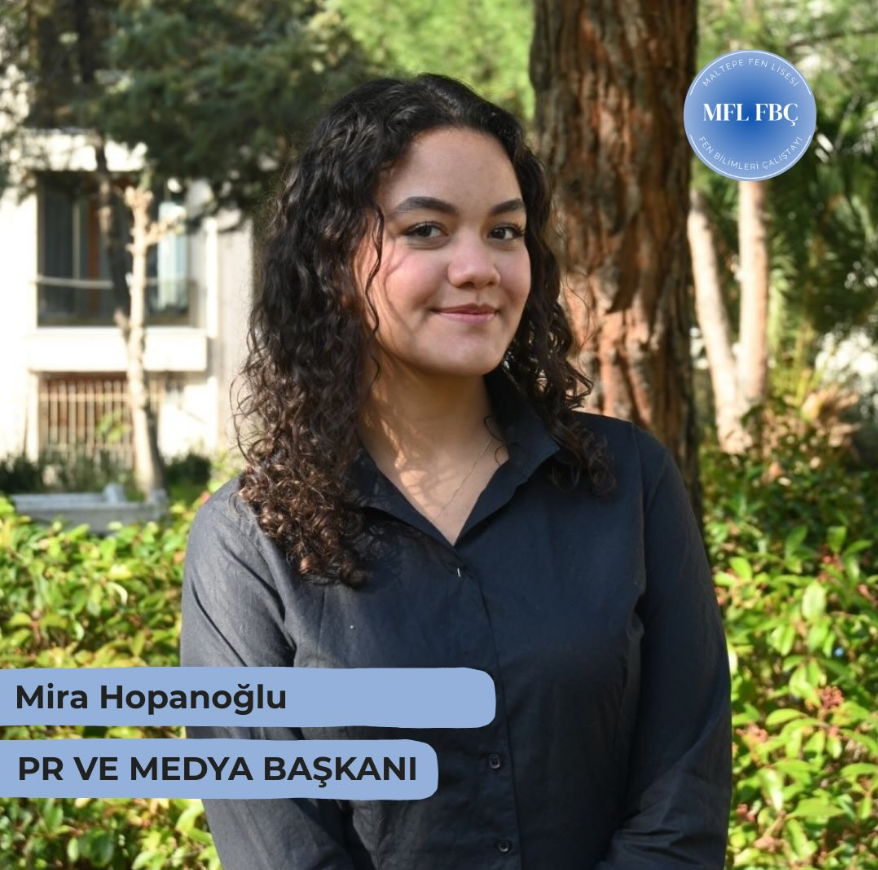
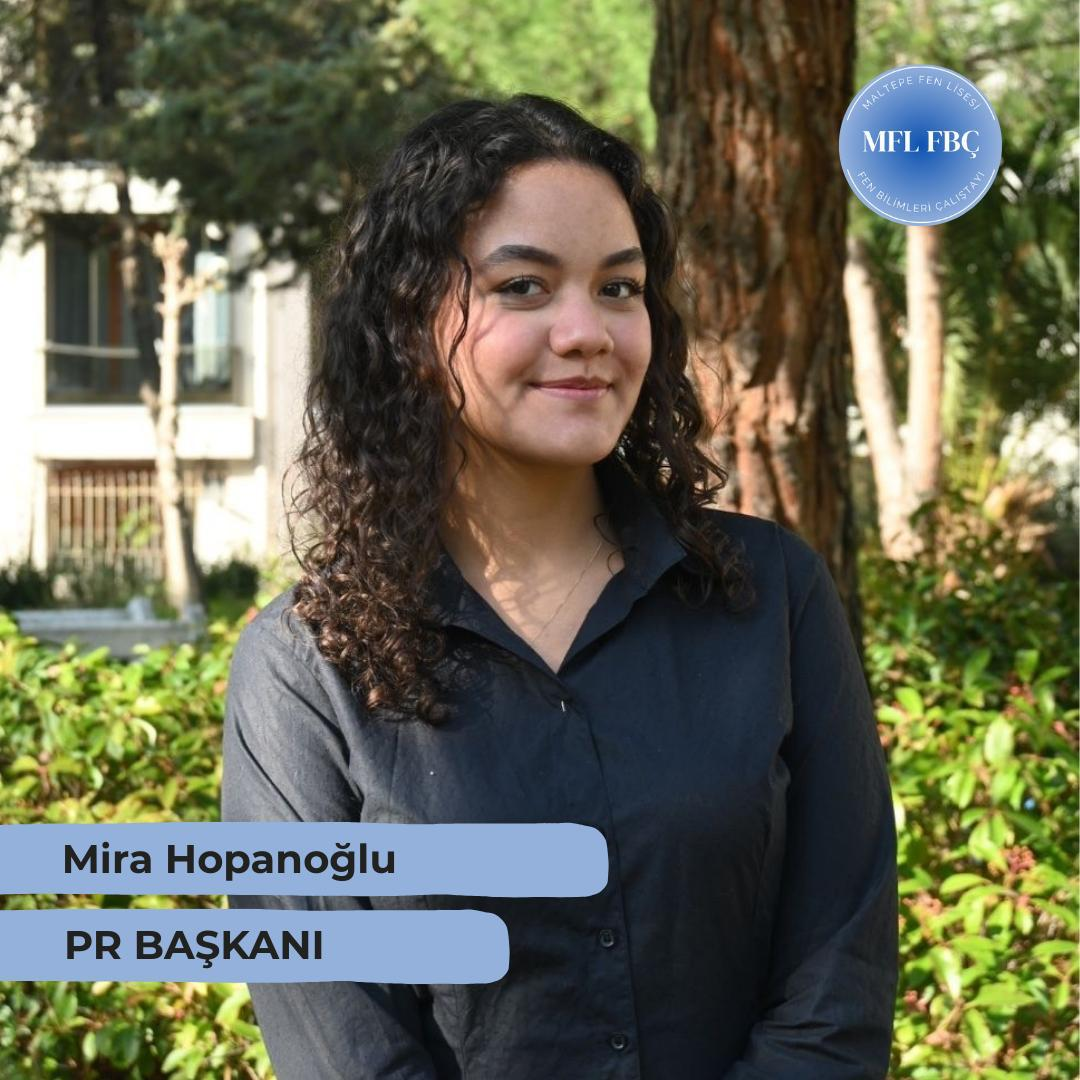
feat: 7 ekip kartı, güncel fotoğraflar ve geçmiş çalıştay galerisi
- Ekiplerimiz: 7 kart (Genel Koordinatör, Yardımcı Koordinatör, PR,
  Press, Akademi, Lojistik, Saha) fotoğraflı tasarım
- Geçmiş çalıştay '25 galerisi 4 fotoğrafa güncellendi
- Alt satır kartları üst satıra göre ortalandı

diff --git a/index.html b/index.html
@@ -348,29 +348,58 @@
             <div class="subteam-grid">
                 <div class="subteam-card reveal">
                     <div class="subteam-cover">
-                        <img src="assets/images/pr-baskan.png" alt="PR Ekibi - Mira Hopanoğlu" class="subteam-photo">
+                        <img src="assets/images/Genel-koordinator-sir-demir.png" alt="Genel Koordinatör" class="subteam-photo">
                     </div>
                     <div class="subteam-body">
-                        <h4 class="subteam-name">PR Ekibi</h4>
-                        <p class="subteam-desc">Çalıştayın kurumsal kimliğini oluşturmak, kamuoyundaki algısını güçlendirmek ve etkinliğin hedef kitlesine doğru ve etkili biçimde ulaşmasını sağlamakla sorumludur. Tanıtım metinleri, afiş ve basın bültenlerini hazırlar, iş birlikleri ve sponsorluk süreçlerini koordine eder.</p>
+                        <h4 class="subteam-name">Genel Koordinatör</h4>
                     </div>
                 </div>
                 <div class="subteam-card reveal">
                     <div class="subteam-cover">
-                        <img src="assets/images/press-baskan.png" alt="Press Ekibi - Mevanur Güneş" class="subteam-photo">
+                        <img src="assets/images/yardimci-koordinator.png" alt="Yardımcı Koordinatör" class="subteam-photo">
                     </div>
                     <div class="subteam-body">
-                        <h4 class="subteam-name">Sosyal Medya Ekibi</h4>
-                        <p class="subteam-desc">Çalıştayın dijital platformlardaki görünürlüğünü artırmak, hedef kitleyle etkileşim kurmak ve etkinlik sürecini dinamik biçimde duyurmak için çalışır. İçerik planlaması yapar, paylaşımların zamanlamasını ve görsel dilini belirler.</p>
+                        <h4 class="subteam-name">Yardımcı Koordinatör</h4>
                     </div>
                 </div>
                 <div class="subteam-card reveal">
                     <div class="subteam-cover">
-                        <img src="assets/images/saha-baskanlarvealibaran.png" alt="Saha Ekibi - Ali Baran Diken, Derin Güzel" class="subteam-photo">
+                        <img src="assets/images/Pr-baskan.png" alt="PR Başkanı" class="subteam-photo">
                     </div>
                     <div class="subteam-body">
-                        <h4 class="subteam-name">Saha Ekibi</h4>
-                        <p class="subteam-desc">Çalıştay süresince tüm fiziksel alanların düzenini, ekiplerin koordinasyonunu ve programın sahada sorunsuz ilerlemesini sağlamakla görevlidir. Salon düzeninden yönlendirmelere, katılımcı akışından anlık ihtiyaçların karşılanmasına kadar sahadaki tüm operasyonları yönetir.</p>
+                        <h4 class="subteam-name">PR Başkanı</h4>
+                    </div>
+                </div>
+                <div class="subteam-card reveal">
+                    <div class="subteam-cover">
+                        <img src="assets/images/press-baskan-miss-meva.jpeg" alt="Press Başkanı" class="subteam-photo">
+                    </div>
+                    <div class="subteam-body">
+                        <h4 class="subteam-name">Press Başkanı</h4>
+                    </div>
+                </div>
+                <div class="subteam-card reveal">
+                    <div class="subteam-cover">
+                        <img src="assets/images/Akademi-baskan.png" alt="Akademi Başkanı" class="subteam-photo">
+                    </div>
+                    <div class="subteam-body">
+                        <h4 class="subteam-name">Akademi Başkanı</h4>
+                    </div>
+                </div>
+                <div class="subteam-card reveal">
+                    <div class="subteam-cover">
+                        <img src="assets/images/lojistik-es-baskanlar.png" alt="Lojistik Eş Başkanları" class="subteam-photo">
+                    </div>
+                    <div class="subteam-body">
+                        <h4 class="subteam-name">Lojistik Eş Başkanları</h4>
+                    </div>
+                </div>
+                <div class="subteam-card reveal">
+                    <div class="subteam-cover">
+                        <img src="assets/images/Saha-es-baskanlari-mr-alibaraann.png" alt="Saha Eş Başkanları" class="subteam-photo">
+                    </div>
+                    <div class="subteam-body">
+                        <h4 class="subteam-name">Saha Eş Başkanları</h4>
                     </div>
                 </div>
             </div>
@@ -490,15 +519,18 @@
             <h2 class="section-title">Geçmiş Çalıştayımız</h2>
 
             <h3 class="past-year">'25</h3>
-            <div class="past-gallery">
+            <div class="past-gallery past-gallery--4">
                 <div class="past-photo reveal">
-                    <img src="assets/images/25-1inci-foto.png" alt="FBÇ '25">
+                    <img src="assets/images/25-1ncu-foto.png" alt="FBÇ '25">
                 </div>
                 <div class="past-photo reveal">
                     <img src="assets/images/25-2nci-foto.png" alt="FBÇ '25">
                 </div>
                 <div class="past-photo reveal">
                     <img src="assets/images/25-3ncu-foto.png" alt="FBÇ '25">
+                </div>
+                <div class="past-photo reveal">
+                    <img src="assets/images/25-4nci-foto.png" alt="FBÇ '25">
                 </div>
             </div>
         </div>

diff --git a/css/style.css b/css/style.css
@@ -883,9 +883,14 @@ img {
 
 /* Subteam Cards */
 .subteam-grid {
-    display: grid;
-    grid-template-columns: repeat(3, 1fr);
-    gap: 28px;
+    display: flex;
+    flex-wrap: wrap;
+    gap: 24px;
+    justify-content: center;
+}
+
+.subteam-grid .subteam-card {
+    width: calc(25% - 18px);
 }
 
 .subteam-card {
@@ -1170,8 +1175,19 @@ img {
     filter: contrast(1.02) saturate(1.05);
 }
 
+.past-gallery--4 {
+    grid-template-columns: repeat(4, 1fr);
+}
+
+@media (max-width: 1024px) {
+    .past-gallery--4 {
+        grid-template-columns: repeat(2, 1fr);
+    }
+}
+
 @media (max-width: 768px) {
-    .past-gallery {
+    .past-gallery,
+    .past-gallery--4 {
         grid-template-columns: 1fr;
     }
 
@@ -1435,8 +1451,8 @@ img {
         grid-template-columns: repeat(2, 1fr);
     }
 
-    .subteam-grid {
-        grid-template-columns: 1fr 1fr;
+    .subteam-grid .subteam-card {
+        width: calc(33.333% - 16px);
     }
 
     .stats-grid {
@@ -1525,8 +1541,8 @@ img {
         gap: 16px;
     }
 
-    .subteam-grid {
-        grid-template-columns: 1fr;
+    .subteam-grid .subteam-card {
+        width: 100%;
     }
 
     .contact-grid {
